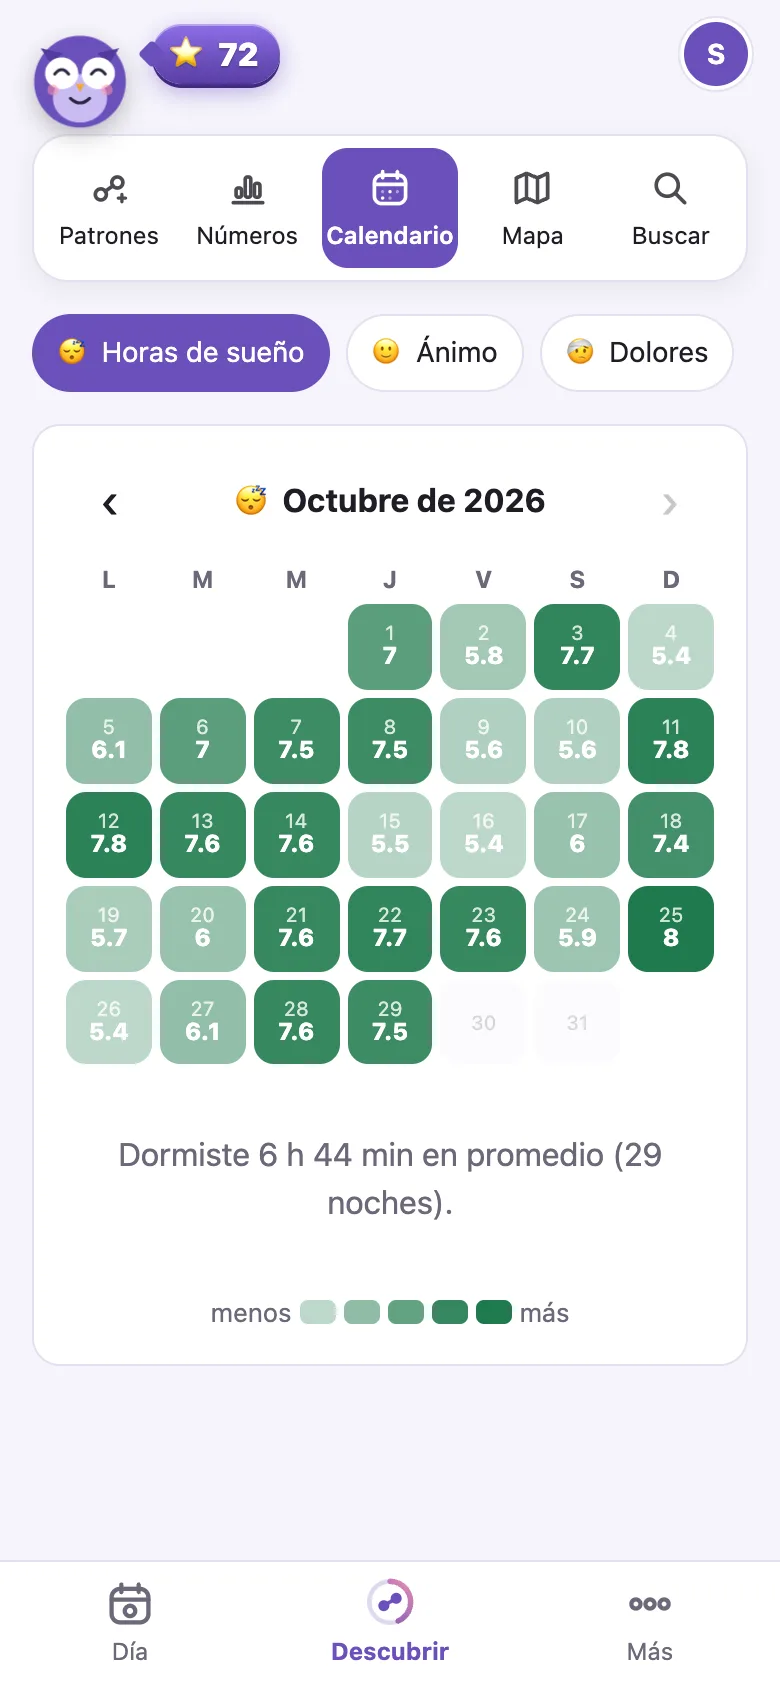
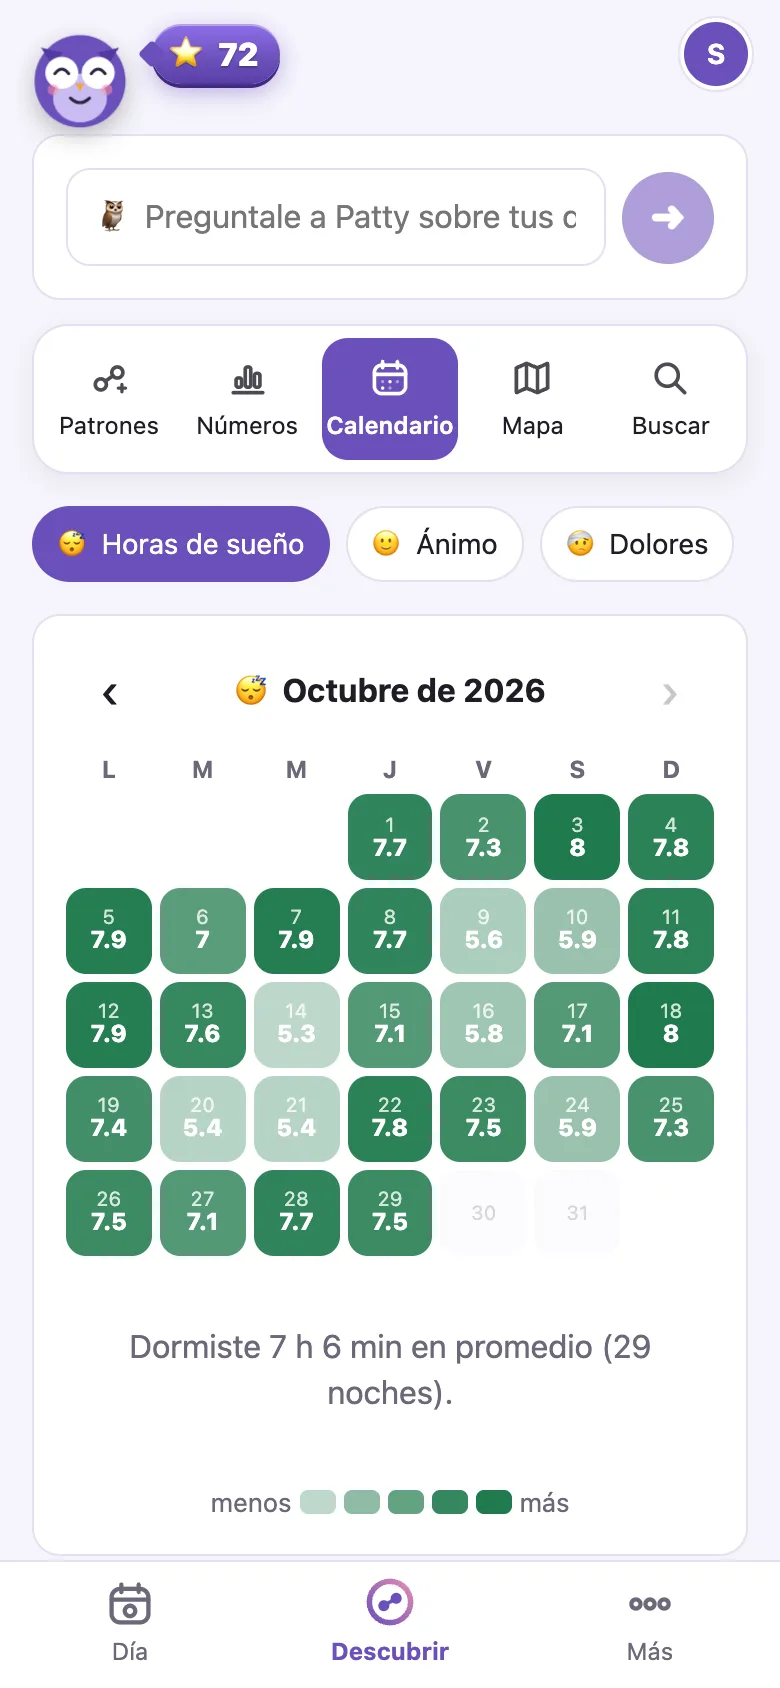
Presentación: más pantallas para consultar (preguntarle a Patty, números, calendario, mapa) y las conexiones (reloj y Health Connect, ubicación, teléfono, calendario, clima, ciclo); en Números no se suman las horas

diff --git a/apps/web/src/pantallas/Presentacion.tsx b/apps/web/src/pantallas/Presentacion.tsx
@@ -3,6 +3,9 @@
 // del teléfono no se muestra: ahí se entra directo.
 import { useEffect, useRef, useState, type FormEvent, type ReactNode } from 'react';
 import { api } from '../api';
+import { IconoCalendario } from '../ui/Iconos';
+import { IconoClima, IconoLugares, IconoReloj, IconoTelefono } from '../ui/IconosMas';
+import { IconoCategoria } from '../ui/IconosPatty';
 import { useEstado } from '../estado';
 import { iniciarAnalytics, medir } from '../lib/analytics';
 import { t } from '../lib/idioma';
@@ -66,6 +69,16 @@ function VideoHistoria() {
     </section>
   );
 }
+
+/** Lo que Patty suma solo, una vez conectado (la sección "Se conecta con lo que ya usás"). */
+const CONEXIONES: Array<{ icono: ReactNode; titulo: string; detalle: string }> = [
+  { icono: <IconoReloj />, titulo: 'Reloj y Health Connect', detalle: 'Sueño con sus etapas, pasos, caminatas y pulso, de tu reloj o pulsera (Samsung, Fitbit y otros) por Health Connect.' },
+  { icono: <IconoLugares />, titulo: 'Ubicación', detalle: 'Tus viajes con su mapa, si hubo tráfico, y los lugares donde pasás el tiempo.' },
+  { icono: <IconoTelefono />, titulo: 'Uso del teléfono', detalle: 'El tiempo de pantalla, qué apps usás más y cuánto hablás por teléfono.' },
+  { icono: <IconoCalendario tamano={28} />, titulo: 'Tu calendario', detalle: 'Las reuniones de Google o Outlook, para ver si un día cargado te pega.' },
+  { icono: <IconoClima />, titulo: 'Clima', detalle: 'El clima de cada hora donde estás: calor, lluvia, humedad, cambios de presión.' },
+  { icono: <IconoCategoria clave="ciclo" tamano={28} />, titulo: 'Ciclo menstrual', detalle: 'La fase de cada día, para ver cómo te va en cada una.' },
+];
 
 /**
  * Mientras Patty está en beta se entra por invitación: quien quiere probarla deja su nombre, su mail y qué le
@@ -171,6 +184,8 @@ export function Presentacion({ alEntrar, conSesion = false }: { alEntrar(): void
       <a className="btn primario pres-cta" href="#beta" onClick={() => medir('pedir_invitacion', { desde: donde })}>{t('Pedir invitación')}</a>
     );
   const finalRef = useVista('final');
+  const consultaRef = useVista('consultar');
+  const conexionesRef = useVista('conexiones');
   const tiempoRef = useVista('tiempo');
   const comoRef = useVista('como');
   return (
@@ -251,23 +266,58 @@ export function Presentacion({ alEntrar, conSesion = false }: { alEntrar(): void
       >
         <div className="pres-ejemplos">
           <div className="pres-ejemplo"><span>😴 → 🤕</span>{t('Después de dormir menos de 6 horas, ese día el dolor de cabeza aparece casi siempre.')}</div>
-          <div className="pres-ejemplo"><span>🍟 → 😣</span>{t('Cuando comés frito, a la tarde aparece el dolor de panza.')}</div>
+          <div className="pres-ejemplo"><span>🍟 + 🩸 + ☀ → 😣</span>{t('Cuando se juntan comida frita, el período y un día de calor, al otro día duele la panza. Una sola de esas cosas, casi nunca.')}</div>
           <div className="pres-ejemplo"><span>🚶 → 😄</span>{t('Los días que caminás media hora, tu ánimo está más arriba.')}</div>
           <div className="pres-ejemplo"><span>📱 → 😴</span>{t('Con mucha pantalla a la noche, dormís menos.')}</div>
         </div>
         <p className="suave chico">{t('Vos le decís si te sirvió, si ya lo sabías o si no tiene sentido, y Patty aprende qué mostrarte.')}</p>
       </Seccion>
 
+      <section ref={consultaRef} id="consultar" className="pres-seccion pres-tres">
+        <div className="pres-texto centro">
+          <h2>{t('Y todo lo tuyo, a mano')}</h2>
+          <p className="pres-bajada">{t('No son solo patrones: todo lo que anotás y lo que junta Patty se puede mirar, buscar y preguntar.')}</p>
+        </div>
+        <div className="pres-fila cuatro">
+          <figure>
+            <Telefono img="preguntar.webp" alt={t('Preguntarle a Patty cómo venís durmiendo')} chico />
+            <figcaption><strong>{t('🦉 Preguntale')}</strong>{t('«¿Cómo vengo durmiendo?», «¿cuándo comí huevos?»: Patty te contesta con tus datos.')}</figcaption>
+          </figure>
+          <figure>
+            <Telefono img="numeros.webp" alt={t('Los números del mes')} chico />
+            <figcaption><strong>{t('📊 Tus números')}</strong>{t('Qué anotaste más, cuántos días, cuántas tazas de café en el mes.')}</figcaption>
+          </figure>
+          <figure>
+            <Telefono img="calendario.webp" alt={t('El calendario del sueño')} chico />
+            <figcaption><strong>{t('📅 El calendario')}</strong>{t('El sueño, el ánimo o los dolores de cada día del mes, de un vistazo.')}</figcaption>
+          </figure>
+          <figure>
+            <Telefono img="mapa.webp" alt={t('El mapa de dónde pasaste tu tiempo')} chico />
+            <figcaption><strong>{t('🗺 El mapa')}</strong>{t('Dónde pasaste tu tiempo y por dónde anduviste.')}</figcaption>
+          </figure>
+        </div>
+      </section>
+
+      <section ref={conexionesRef} id="conexiones" className="pres-conexiones">
+        <h2>{t('Se conecta con lo que ya usás')}</h2>
+        <p className="pres-bajada">{t('Lo activás una vez y Patty lo suma solo, sin que tengas que anotar nada.')}</p>
+        <div className="pres-conexiones-grilla">
+          {CONEXIONES.map((x) => (
+            <div key={x.titulo} className="pres-conexion">
+              <span className="pres-conexion-icono" aria-hidden>{x.icono}</span>
+              <strong>{t(x.titulo)}</strong>
+              <span className="suave chico">{t(x.detalle)}</span>
+            </div>
+          ))}
+        </div>
+        <p className="suave chico">{t('Cada conexión se prende y se apaga cuando quieras, y lo de Android funciona con la app instalada.')}</p>
+      </section>
+
       <Seccion
         id="antes"
         titulo={t('¿Qué pasó antes?')}
         bajada={t('Cuando anotás un dolor o un mal momento, Patty mira las horas anteriores: qué comiste, cómo dormiste, el clima, cuánto te moviste. Así es más fácil darte cuenta.')}
-        telefono={
-          <>
-            <Telefono img="antes.webp" alt={t('Lo que pasó antes de un dolor de cabeza')} />
-            <Telefono img="mapa.webp" alt={t('El mapa de dónde pasaste tu tiempo')} chico />
-          </>
-        }
+        telefono={<Telefono img="antes.webp" alt={t('Lo que pasó antes de un dolor de cabeza')} />}
       />
 
       <Seccion

diff --git a/packages/shared/src/i18n/en/permisos.ts b/packages/shared/src/i18n/en/permisos.ts
@@ -927,4 +927,29 @@ export const PERMISOS: Record<string, string> = {
   "Descartada": "Dismissed",
   "Todavía no llegó ningún pedido.": "No requests yet.",
   "🧪 Beta": "🧪 Beta",
+  "Cuando se juntan comida frita, el período y un día de calor, al otro día duele la panza. Una sola de esas cosas, casi nunca.": "When fried food, your period and a hot day come together, your stomach hurts the next day. Just one of them, almost never.",
+  "Y todo lo tuyo, a mano": "And everything of yours, at hand",
+  "No son solo patrones: todo lo que anotás y lo que junta Patty se puede mirar, buscar y preguntar.": "It's not just patterns: everything you log and everything Patty gathers can be browsed, searched and asked about.",
+  "Preguntarle a Patty cómo venís durmiendo": "Asking Patty how you've been sleeping",
+  "🦉 Preguntale": "🦉 Ask her",
+  "«¿Cómo vengo durmiendo?», «¿cuándo comí huevos?»: Patty te contesta con tus datos.": "“How have I been sleeping?”, “when did I eat eggs?”: Patty answers with your data.",
+  "Los números del mes": "The month's numbers",
+  "📊 Tus números": "📊 Your numbers",
+  "Qué anotaste más, cuántos días, cuántas tazas de café en el mes.": "What you logged most, how many days, how many cups of coffee this month.",
+  "El calendario del sueño": "The sleep calendar",
+  "📅 El calendario": "📅 The calendar",
+  "El sueño, el ánimo o los dolores de cada día del mes, de un vistazo.": "Sleep, mood or pain for every day of the month, at a glance.",
+  "🗺 El mapa": "🗺 The map",
+  "Dónde pasaste tu tiempo y por dónde anduviste.": "Where you spent your time and where you went.",
+  "Se conecta con lo que ya usás": "It connects to what you already use",
+  "Lo activás una vez y Patty lo suma solo, sin que tengas que anotar nada.": "Turn it on once and Patty adds it by itself, without you logging anything.",
+  "Cada conexión se prende y se apaga cuando quieras, y lo de Android funciona con la app instalada.": "Each connection can be turned on and off whenever you like; the Android ones work with the app installed.",
+  "Reloj y Health Connect": "Watch and Health Connect",
+  "Sueño con sus etapas, pasos, caminatas y pulso, de tu reloj o pulsera (Samsung, Fitbit y otros) por Health Connect.": "Sleep with its stages, steps, walks and heart rate, from your watch or band (Samsung, Fitbit and others) through Health Connect.",
+  "Tus viajes con su mapa, si hubo tráfico, y los lugares donde pasás el tiempo.": "Your trips with their map, whether there was traffic, and the places where you spend time.",
+  "El tiempo de pantalla, qué apps usás más y cuánto hablás por teléfono.": "Screen time, which apps you use most and how long you talk on the phone.",
+  "Tu calendario": "Your calendar",
+  "Las reuniones de Google o Outlook, para ver si un día cargado te pega.": "Meetings from Google or Outlook, to see whether a busy day takes its toll.",
+  "El clima de cada hora donde estás: calor, lluvia, humedad, cambios de presión.": "The weather every hour where you are: heat, rain, humidity, pressure changes.",
+  "La fase de cada día, para ver cómo te va en cada una.": "The phase of each day, to see how you do in each one.",
 };

diff --git a/apps/web/src/estilos.css b/apps/web/src/estilos.css
@@ -1502,3 +1502,13 @@ main { padding: 12px 16px; max-width: 640px; margin: 0 auto; }
 a.btn.primario { color: var(--sobre-acento); text-decoration: none; }
 .pres-portada .pres-beta { display: block; width: fit-content; }
 @media (max-width: 820px) { .pres-portada .pres-beta { margin-left: auto; margin-right: auto; } }
+
+/* Presentación: "Y todo lo tuyo, a mano" (cuatro pantallas) y "Se conecta con lo que ya usás". */
+.pres-fila.cuatro { grid-template-columns: repeat(4, 1fr); gap: 22px; }
+@media (max-width: 1000px) { .pres-fila.cuatro { grid-template-columns: repeat(2, 1fr); } }
+.pres-conexiones { padding: 48px 0; text-align: center; }
+.pres-conexiones-grilla { display: grid; grid-template-columns: repeat(3, 1fr); gap: 14px; margin: 24px 0 14px; text-align: left; }
+@media (max-width: 820px) { .pres-conexiones-grilla { grid-template-columns: 1fr; } }
+.pres-conexion { display: grid; grid-template-columns: auto 1fr; grid-template-rows: auto auto; column-gap: 12px; row-gap: 2px; align-items: center; padding: 14px 16px; border-radius: 16px; background: var(--panel); border: 1px solid var(--borde); }
+.pres-conexion-icono { grid-row: 1 / span 2; display: inline-flex; align-items: center; justify-content: center; width: 46px; height: 46px; border-radius: 14px; background: var(--acento-suave); color: var(--acento); }
+@media (max-width: 560px) { .pres-fila.cuatro { grid-template-columns: 1fr; } }

diff --git a/apps/web/src/pantallas/Numeros.tsx b/apps/web/src/pantallas/Numeros.tsx
@@ -65,7 +65,7 @@ export function Numeros({ persona, alElegir }: { persona: Persona; alElegir(conc
                 </span>
                 <span className="cifra">
                   <span><strong>{x.dias}</strong> {dias1(x.dias)}</span>
-                  {x.suma && x.unidad ? <span className="suave chico">{conUnidad(x.suma, x.unidad, 1, idioma())}</span> : x.veces > x.dias ? <span className="suave chico">{t('{n} veces', { n: x.veces })}</span> : null}
+                  {x.suma && x.unidad && x.unidad !== 'hora' ? <span className="suave chico">{conUnidad(x.suma, x.unidad, 1, idioma())}</span> : x.veces > x.dias ? <span className="suave chico">{t('{n} veces', { n: x.veces })}</span> : null}
                 </span>
               </li>
             ))}
